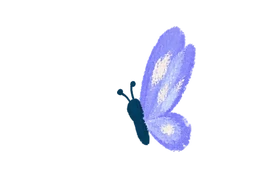
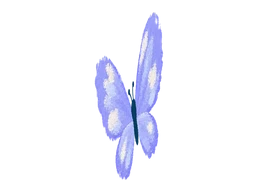
Butterfly Forest as in the concept: the floor comes up to the path (a bright verge along its lower edge, the leaf colour behind), plants no larger than they should be; the lavender butterfly's wings close evenly like the ivory one's

Changed region(s): [[0.3438, 0.0625, 0.7812, 0.9375]]

diff --git a/app/journey/page.tsx b/app/journey/page.tsx
@@ -1267,6 +1267,8 @@ export default function JourneyPage() {
             during the ascent: the fox stays in the meadow and leaves
             through the bottom of the screen. */}
         <div className="jw-group jw-meadow">
+          {/* behind the ground: its own leaf colour, so the backdrop never shows through */}
+          {scene.floorFill && <div className="jw-floor" style={{ background: scene.floorFill }} aria-hidden />}
           <ParallaxLayer
             // the pond's surface: a 1–2px ripple over ~20s (never a current)
             className={scene.fish ? "tod-grade jw-pond-water" : "tod-grade"}
@@ -1275,7 +1277,7 @@ export default function JourneyPage() {
             speed={scene.groundSpeed ?? LAYER_SPEED.walkingGround}
             zIndex={1}
             align="bottom"
-            heightPct={1}
+            heightPct={scene.groundHeight ?? 1}
             bottom={scene.groundBottom}
             drift={scene.groundDrift}
             seamOverlap={2}
@@ -1284,6 +1286,20 @@ export default function JourneyPage() {
           {scene.fish && <div className="jw-pond-light" aria-hidden />}
           {/* the continuous time-of-day grass line, just behind the path */}
           <MeadowStrip phase={tod?.phase ?? null} zIndex={2} override={scene.strip} speed={scene.stripSpeed} />
+          {/* the near verge (forest): bright leaf tips along the path's lower edge */}
+          {scene.verge && (
+            <ParallaxLayer
+              key={`verge-${scene.id}`}
+              className="tod-grade"
+              src={scene.verge.src}
+              speed={36}
+              zIndex={2}
+              align="bottom"
+              heightPct={scene.verge.heightPct}
+              bottom={scene.verge.bottom}
+              seamOverlap={2}
+            />
+          )}
           {/* the forest's big trees, rooted on the path line behind Sísí (the path
               covers their roots); crowns run off the top */}
           {scene.bigTrees && (

diff --git a/lib/sceneTheme.ts b/lib/sceneTheme.ts
@@ -33,6 +33,13 @@ export type SceneTheme = {
   midgroundBottom: string;
   /** where the ground image rests (the water's top hidden under the deck) */
   groundBottom: string;
+  /** the ground's height as a fraction of the stage (default 1) */
+  groundHeight?: number;
+  /** a verge just below the path (the near side's leaf tips and flowers) */
+  verge?: { src: string; heightPct: number; bottom: string };
+  /** a solid colour behind the ground, from the bottom up to the path, so a
+   *  backdrop never shows through gaps between its leaves */
+  floorFill?: string;
   /** px/s the ground flows by itself (a pond's water) */
   groundDrift?: number;
   /** px/s while walking, when it differs from the path's (a pond's water) */
@@ -128,7 +135,15 @@ export const SCENE_THEMES: Record<SceneThemeId, SceneTheme> = {
     pathBottom: "calc(var(--walking-baseline) - 18.02%)",
     midgroundHeight: 0.18,
     midgroundBottom: "calc(var(--walking-baseline) - 1.5%)",
-    groundBottom: "calc(var(--walking-baseline) - 1% - 26.95%)",
+    // the forest floor meets the path, as in the concept: its leafy top (row
+    // ~620 of 768, where the leaves close in) at the path's lower edge
+    // (baseline − 1.93%); its last rows sink behind the low foreground leaves
+    groundHeight: 1.04,
+    groundBottom: "calc(var(--walking-baseline) - 22%)",
+    floorFill: "rgb(20, 62, 64)",
+    // the near verge, as in the concept: the forest's bright bank (leaf tips,
+    // flowers) right along the path's lower edge, over the floor's dark top
+    verge: { src: `${F}/meadow-strip-forest.webp`, heightPct: 0.13, bottom: "calc(var(--walking-baseline) - 11.6%)" },
     midgroundSpeed: 11,
     stripSpeed: 26,
     foregroundSpeed: 43,

diff --git a/components/sisi/moments/MomentsWorld.tsx b/components/sisi/moments/MomentsWorld.tsx
@@ -654,7 +654,7 @@ export const MomentsWorld = forwardRef<
           : L.key === "midground"
             ? { ...L, src: scene.midground, heightPct: scene.midgroundHeight, bottom: scene.midgroundBottom }
             : L.key === "ground"
-              ? { ...L, src: scene.ground, bottom: scene.groundBottom }
+              ? { ...L, src: scene.ground, bottom: scene.groundBottom, heightPct: scene.groundHeight ?? L.heightPct }
               : L.key === "path"
                 ? { ...L, src: scene.path, bottom: scene.pathBottom }
                 : L,
@@ -711,6 +711,15 @@ export const MomentsWorld = forwardRef<
                   so the meadow is the same on both pages (nothing appears or
                   disappears when they hand over) */}
               {tod && <BandLayer key={`strip-${tod.phase}-${scene.id}`} spec={stripBand(tod.phase, scene.strip)} H={H} W={W} register={register} />}
+              {scene.verge && (
+                <BandLayer
+                  key={`verge-${scene.id}`}
+                  spec={{ kind: "band", key: "verge", src: scene.verge.src, ratio: 1, heightPct: scene.verge.heightPct, bottom: scene.verge.bottom, filter: TOD_GRADE, seam: 2 }}
+                  H={H}
+                  W={W}
+                  register={register}
+                />
+              )}
               {/* the forest's big trees, behind the path (as on the Journey) */}
               {scene.bigTrees && (
                 <BandLayer

diff --git a/app/globals.css b/app/globals.css
@@ -555,6 +555,8 @@ input, textarea, [contenteditable="true"] { -webkit-touch-callout: default; -web
 html.tour-pencil .capture-fab, html.pencil-told .capture-fab { border-radius: 50%; animation: tourGlow 2s ease-in-out infinite; }
 /* the header's two tools keep their shape over a busy canopy (a faint shadow) */
 .journey-header svg { filter: drop-shadow(0 1px 2.5px rgba(10, 28, 44, 0.45)); }
+/* a place's floor colour, behind its ground (up to just under the path) */
+.jw-floor { position: absolute; left: 0; right: 0; bottom: 0; z-index: 0; height: calc(var(--walking-baseline) - 3%); pointer-events: none; }
 /* a place's own backdrop (the forest), over the sky and its clouds */
 .jw-backdrop { position: absolute; inset: 0; z-index: 1; width: 100%; height: 100%; object-fit: cover; object-position: 50% 30%; pointer-events: none; user-select: none; }
 /* under the tabs, on a busy near bank: a soft dark fade (the names stay legible) */
